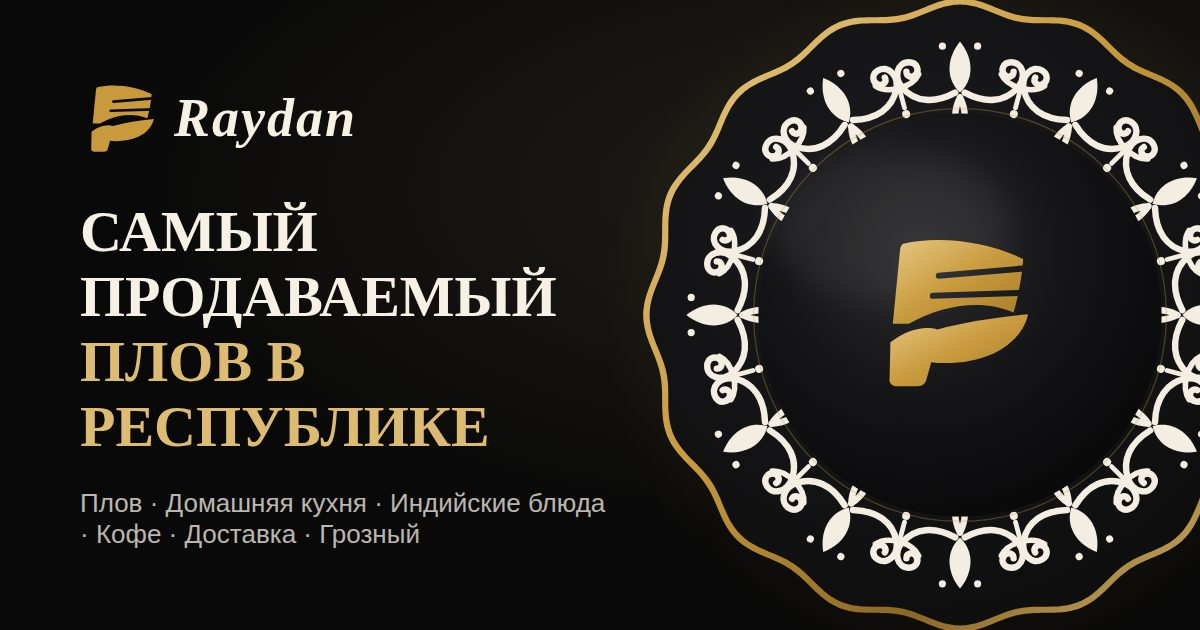
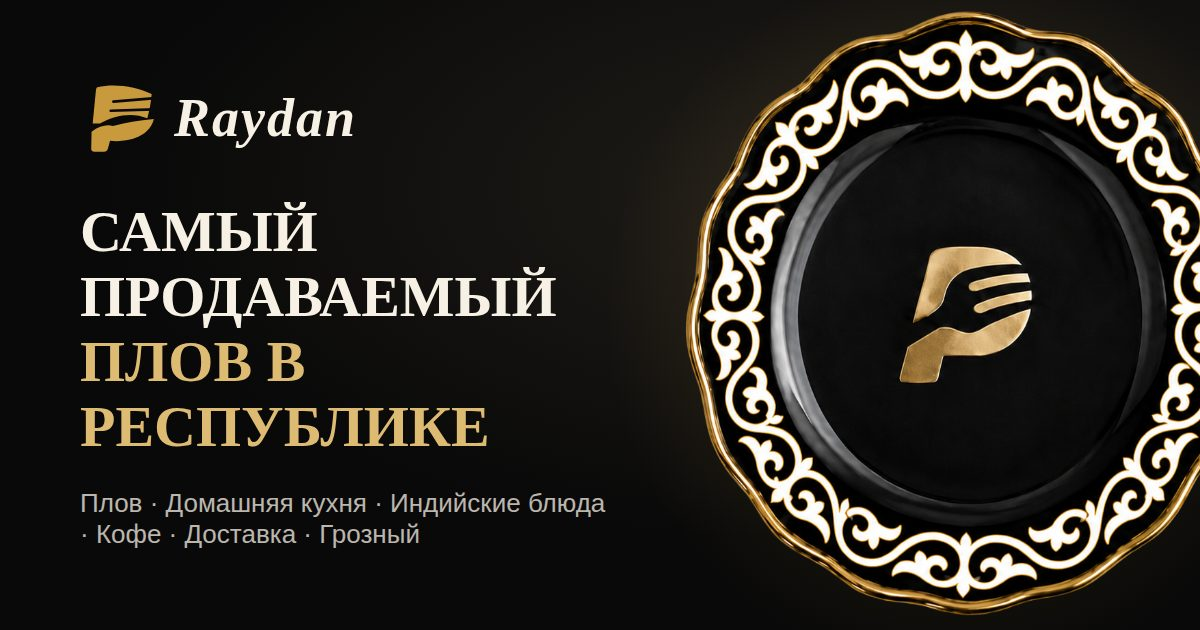
Use official plate photo in hero and social image
Claude-Session: https://claude.ai/code/session_01AP3RyKJC8hzs6tmKKVoHoY

Changed region(s): [[0.5242, 0.0, 1.0, 1.0]]

diff --git a/components/ui/Plate.tsx b/components/ui/Plate.tsx
@@ -1,14 +1,10 @@
 import Image from "next/image";
 
 /**
- * Raydan ornamental plate — the site's hero object.
- *
- * The artwork (`/public/images/plate.svg`) is a vector recreation of the
- * official plate photo supplied by the business: scalloped gold-trimmed
- * edge, white arabesque band on black, glossy black well and the gold
- * Raydan P mark in the center. To use the original photo instead, drop
- * `plate_transp.png` into `public/images/` and change the `src` below
- * (see README → Assets).
+ * Raydan ornamental plate — the site's hero object (official photo,
+ * `public/images/plate_transp.png`). A vector recreation of the same
+ * plate lives at `public/images/plate.svg` (used by the OG image
+ * fallback and available as a lightweight alternative).
  */
 export default function Plate({
   className,
@@ -19,12 +15,12 @@ export default function Plate({
 }) {
   return (
     <Image
-      src="/images/plate.svg"
+      src="/images/plate_transp.png"
       alt={title ?? ""}
-      width={800}
-      height={800}
+      width={936}
+      height={843}
       priority
-      unoptimized
+      sizes="(min-width: 1024px) 34rem, 86vw"
       className={className}
     />
   );
